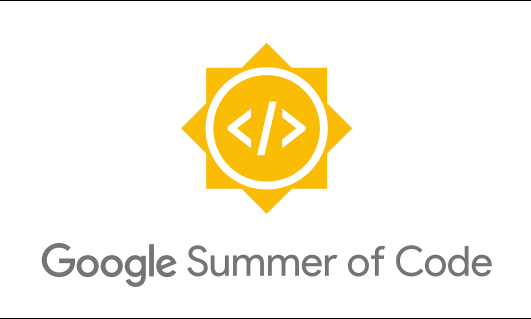
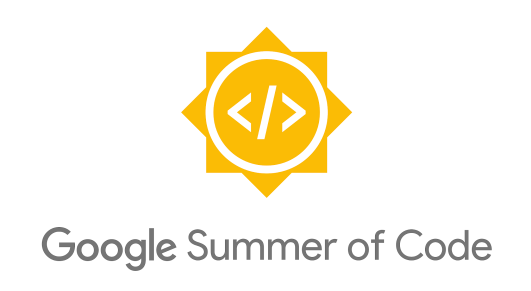
Improve formatting in chapter 0

diff --git a/_posts/2020-05-16-Chapter-0-Introduction.html b/_posts/2020-05-16-Chapter-0-Introduction.html
@@ -5,8 +5,9 @@ date:   2020-05-16 +0530
 author: Aditya Borikar
 ---
 
+    <center>
     <img src="https://adiaholic.github.io/gsoc2020/assets/images/gsoc.png">
-
+    </center>
     <br>
     &emsp;Google Summer of Code is a great opportunity for me to engage with open source communities. This is my introductory blog and an amateur attempt at blogging.
 
